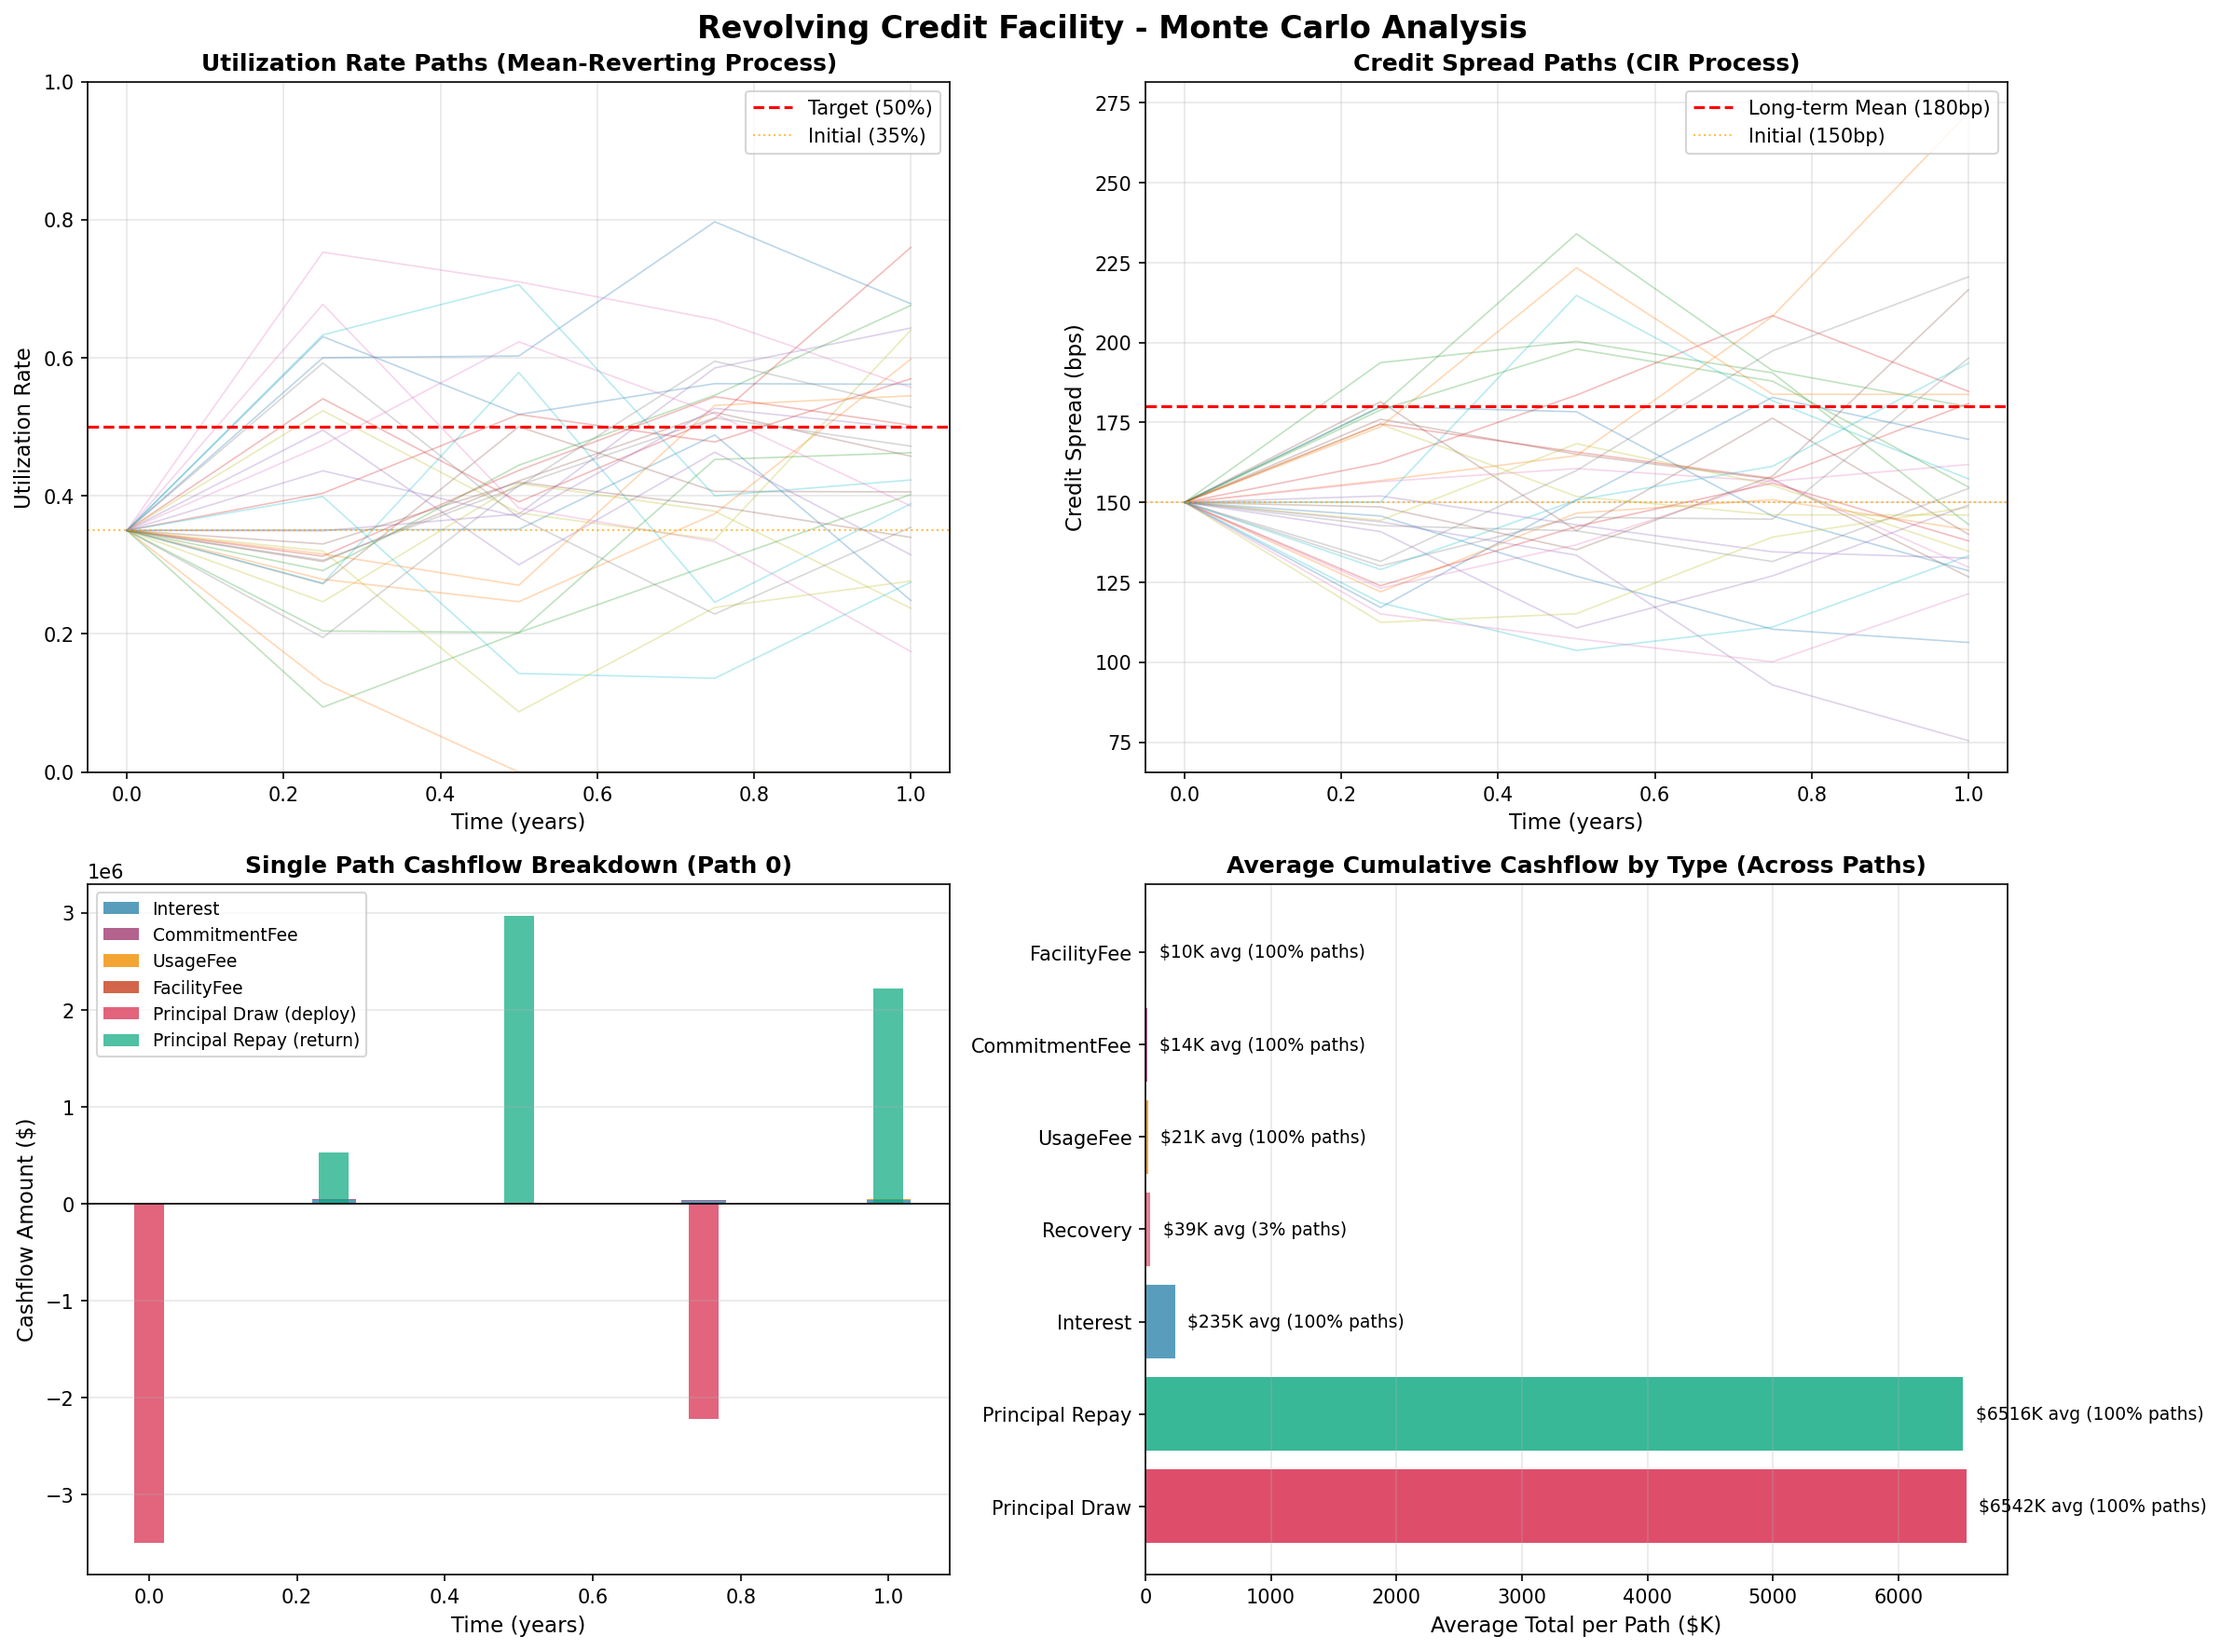
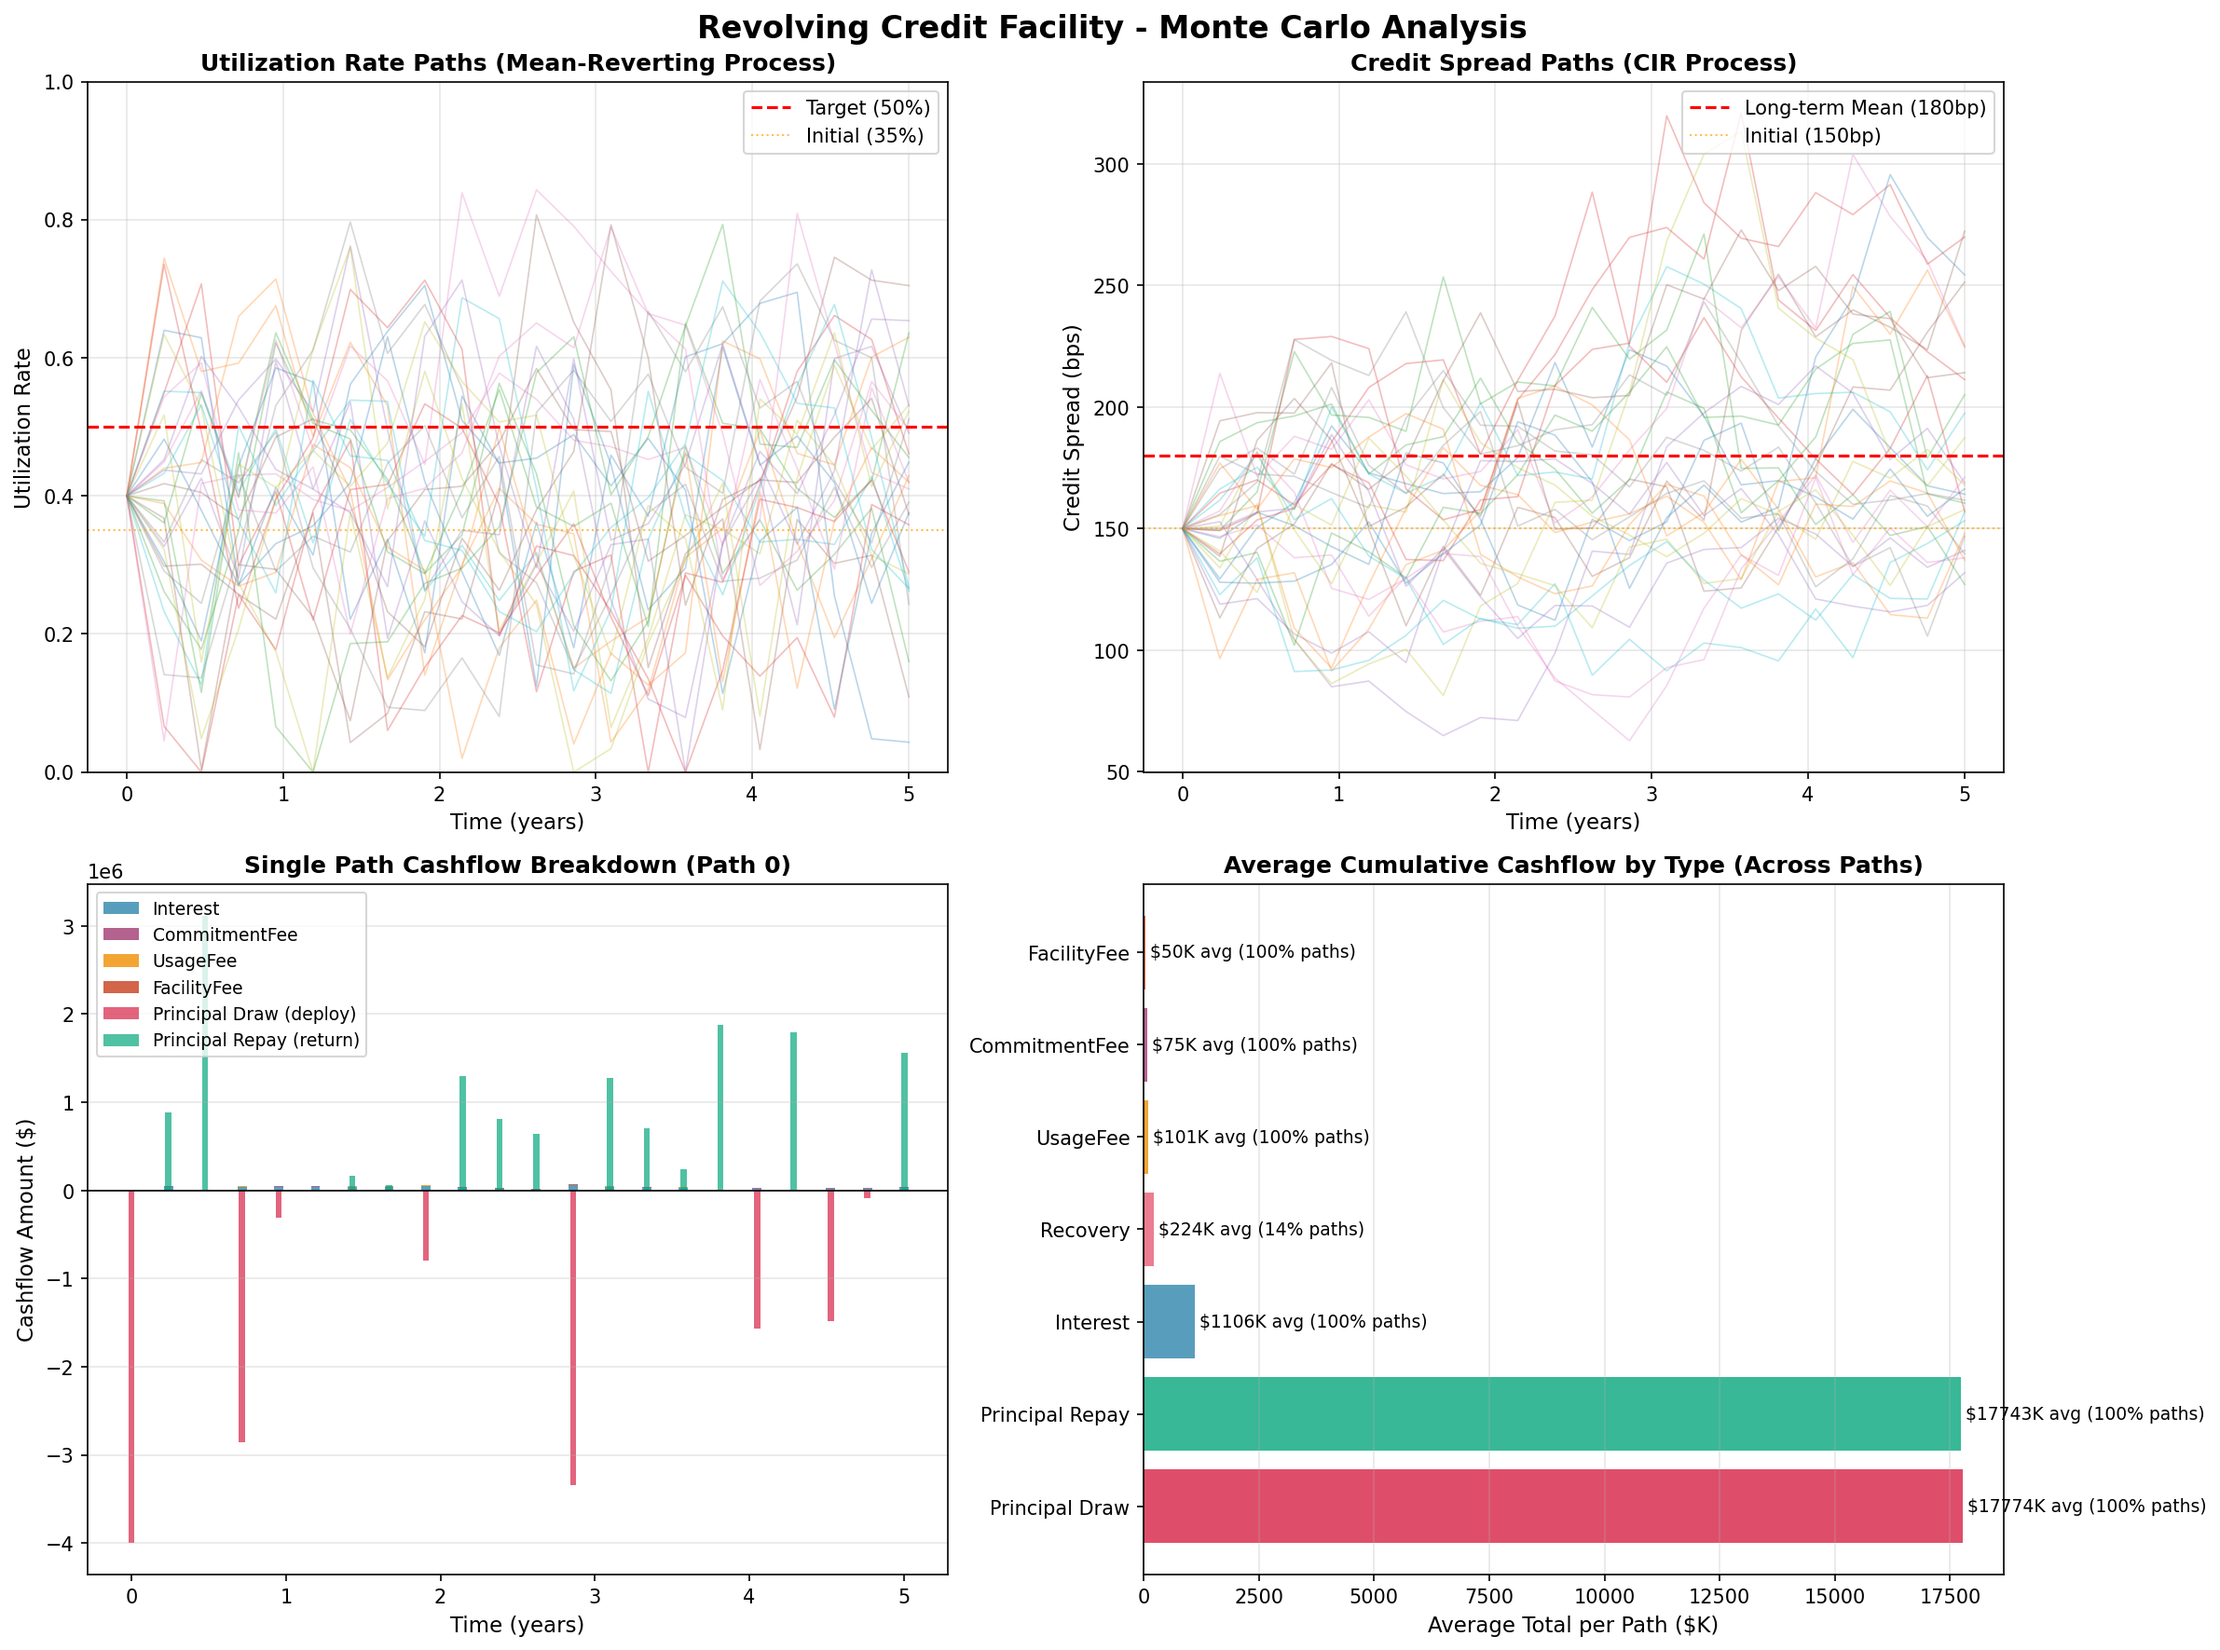
feat: update revolving credit demo parameters and increase simulation paths
- Changed maturity dates from 2026/2027 to 2030 across all examples for longer time horizon
- Standardized drawn amount to $4M USD (previously varied between $3M-$5M)
- Increased Monte Carlo simulation paths from 200-500 to 5000 for better statistical accuracy
- Adjusted mean reversion parameters: reduced target rate to 40% (from 50-60%) and increased speed to 2.0
- Removed unused/outdated visualization files and updated demo plot

diff --git a/finstack-py/examples/scripts/valuations/instruments/revolving_credit_api_demo.py b/finstack-py/examples/scripts/valuations/instruments/revolving_credit_api_demo.py
@@ -70,9 +70,9 @@ def example_1_standard_pricing():
     revolver = RevolvingCredit.builder(
         instrument_id="RC_STANDARD",
         commitment_amount=Money(10_000_000.0, USD),
-        drawn_amount=Money(5_000_000.0, USD),
+        drawn_amount=Money(4_000_000.0, USD),
         commitment_date=val_date,
-        maturity_date=date(2027, 1, 1),
+        maturity_date=date(2030, 1, 1),
         base_rate_spec={"type": "fixed", "rate": 0.055},
         payment_frequency="quarterly",
         fees={
@@ -112,9 +112,9 @@ def example_2_monte_carlo_with_paths():
     revolver = RevolvingCredit.builder(
         instrument_id="RC_STOCHASTIC",
         commitment_amount=Money(10_000_000.0, USD),
-        drawn_amount=Money(3_000_000.0, USD),
+        drawn_amount=Money(4_000_000.0, USD),
         commitment_date=val_date,
-        maturity_date=date(2026, 1, 1),
+        maturity_date=date(2030, 1, 1),
         base_rate_spec={"type": "fixed", "rate": 0.06},
         payment_frequency="quarterly",
         fees={
@@ -127,11 +127,11 @@ def example_2_monte_carlo_with_paths():
             "stochastic": {
                 "utilization_process": {
                     "type": "mean_reverting",
-                    "target_rate": 0.55,
-                    "speed": 1.2,
+                    "target_rate": 0.40,
+                    "speed": 2.0,
                     "volatility": 0.35,
                 },
-                "num_paths": 500,
+                "num_paths": 5000,
                 "seed": 42,
                 "mc_config": {
                     "recovery_rate": 0.40,
@@ -196,7 +196,7 @@ def example_3_cashflow_dataframe():
         commitment_amount=Money(10_000_000.0, USD),
         drawn_amount=Money(4_000_000.0, USD),
         commitment_date=val_date,
-        maturity_date=date(2026, 1, 1),
+        maturity_date=date(2030, 1, 1),
         base_rate_spec={"type": "fixed", "rate": 0.055},
         payment_frequency="quarterly",
         fees={
@@ -208,11 +208,11 @@ def example_3_cashflow_dataframe():
             "stochastic": {
                 "utilization_process": {
                     "type": "mean_reverting",
-                    "target_rate": 0.50,
-                    "speed": 1.0,
-                    "volatility": 0.25,
+                    "target_rate": 0.40,
+                    "speed": 2.0,
+                    "volatility": 0.3,
                 },
-                "num_paths": 200,
+                "num_paths": 5000,
                 "seed": 123,
                 "mc_config": {
                     "recovery_rate": 0.40,
@@ -225,7 +225,7 @@ def example_3_cashflow_dataframe():
     
     # One-line cashflow DataFrame extraction!
     print("\nExtracting cashflows to DataFrame...")
-    df = revolver.cashflows_df(market, val_date, num_paths=2000, capture_mode="all", seed=123)
+    df = revolver.cashflows_df(market, val_date, num_paths=5000, capture_mode="all", seed=123)
     
     print(f"Total cashflows: {len(df)}")
     print(f"\nCashflow breakdown by type:")
@@ -258,7 +258,7 @@ def example_4_irr_distribution():
         commitment_amount=Money(10_000_000.0, USD),
         drawn_amount=Money(4_000_000.0, USD),
         commitment_date=val_date,
-        maturity_date=date(2026, 1, 1),
+        maturity_date=date(2030, 1, 1),
         base_rate_spec={"type": "fixed", "rate": 0.06},
         payment_frequency="quarterly",
         fees={
@@ -270,11 +270,11 @@ def example_4_irr_distribution():
             "stochastic": {
                 "utilization_process": {
                     "type": "mean_reverting",
-                    "target_rate": 0.60,
-                    "speed": 0.8,
+                    "target_rate": 0.40,
+                    "speed": 2.0,
                     "volatility": 0.30,
                 },
-                "num_paths": 500,
+                "num_paths": 5000,
                 "seed": 456,
                 "mc_config": {
                     "recovery_rate": 0.40,
@@ -295,7 +295,7 @@ def example_4_irr_distribution():
     
     # Calculate IRR distribution (simple one-liner!)
     print("\nCalculating IRR distribution across 500 paths...")
-    irr_stats = revolver.irr_distribution(market, val_date, num_paths=500, seed=456)
+    irr_stats = revolver.irr_distribution(market, val_date, num_paths=5000, seed=456)
     
     print(f"\nIRR Distribution Statistics:")
     print(f"  Mean:     {irr_stats['mean']:.2%}")
@@ -322,9 +322,9 @@ def create_visualizations():
     revolver = RevolvingCredit.builder(
         instrument_id="RC_VIZ",
         commitment_amount=Money(10_000_000.0, USD),
-        drawn_amount=Money(3_500_000.0, USD),
+        drawn_amount=Money(4_000_000.0, USD),
         commitment_date=val_date,
-        maturity_date=date(2026, 1, 1),
+        maturity_date=date(2030, 1, 1),
         base_rate_spec={"type": "fixed", "rate": 0.055},
         payment_frequency="quarterly",
         fees={
@@ -337,11 +337,11 @@ def create_visualizations():
             "stochastic": {
                 "utilization_process": {
                     "type": "mean_reverting",
-                    "target_rate": 0.50,
-                    "speed": 1.0,
+                    "target_rate": 0.40,
+                    "speed": 2.0,
                     "volatility": 0.30,
                 },
-                "num_paths": 300,
+                "num_paths": 5000,
                 "seed": 789,
                 "mc_config": {
                     "recovery_rate": 0.40,
@@ -378,7 +378,7 @@ def create_visualizations():
     
     # Extract cashflows
     print("\nExtracting cashflow data...")
-    df_cashflows = revolver.cashflows_df(market, val_date, num_paths=300, capture_mode="sample", seed=789)
+    df_cashflows = revolver.cashflows_df(market, val_date, num_paths=5000, capture_mode="sample", seed=789)
     
     # Create figure with subplots
     fig, axes = plt.subplots(2, 2, figsize=(16, 12))
@@ -554,9 +554,9 @@ def example_5_pandas_analysis():
     revolver = RevolvingCredit.builder(
         instrument_id="RC_PANDAS_DEMO",
         commitment_amount=Money(10_000_000.0, USD),
-        drawn_amount=Money(3_000_000.0, USD),
+        drawn_amount=Money(4_000_000.0, USD),
         commitment_date=val_date,
-        maturity_date=date(2026, 1, 1),
+        maturity_date=date(2030, 1, 1),
         base_rate_spec={"type": "fixed", "rate": 0.055},
         payment_frequency="quarterly",
         fees={
@@ -568,11 +568,11 @@ def example_5_pandas_analysis():
             "stochastic": {
                 "utilization_process": {
                     "type": "mean_reverting",
-                    "target_rate": 0.50,
-                    "speed": 1.0,
+                    "target_rate": 0.40,
+                    "speed": 2.0,
                     "volatility": 0.25,
                 },
-                "num_paths": 200,
+                "num_paths": 5000,
                 "seed": 111,
                 "mc_config": {
                     "recovery_rate": 0.40,
@@ -584,7 +584,7 @@ def example_5_pandas_analysis():
     )
     
     # Get cashflows
-    df = revolver.cashflows_df(market, val_date, num_paths=200, seed=111)
+    df = revolver.cashflows_df(market, val_date, num_paths=5000, seed=111)
     
     print("\nPandas Analysis Examples:")
     print("-" * 80)
